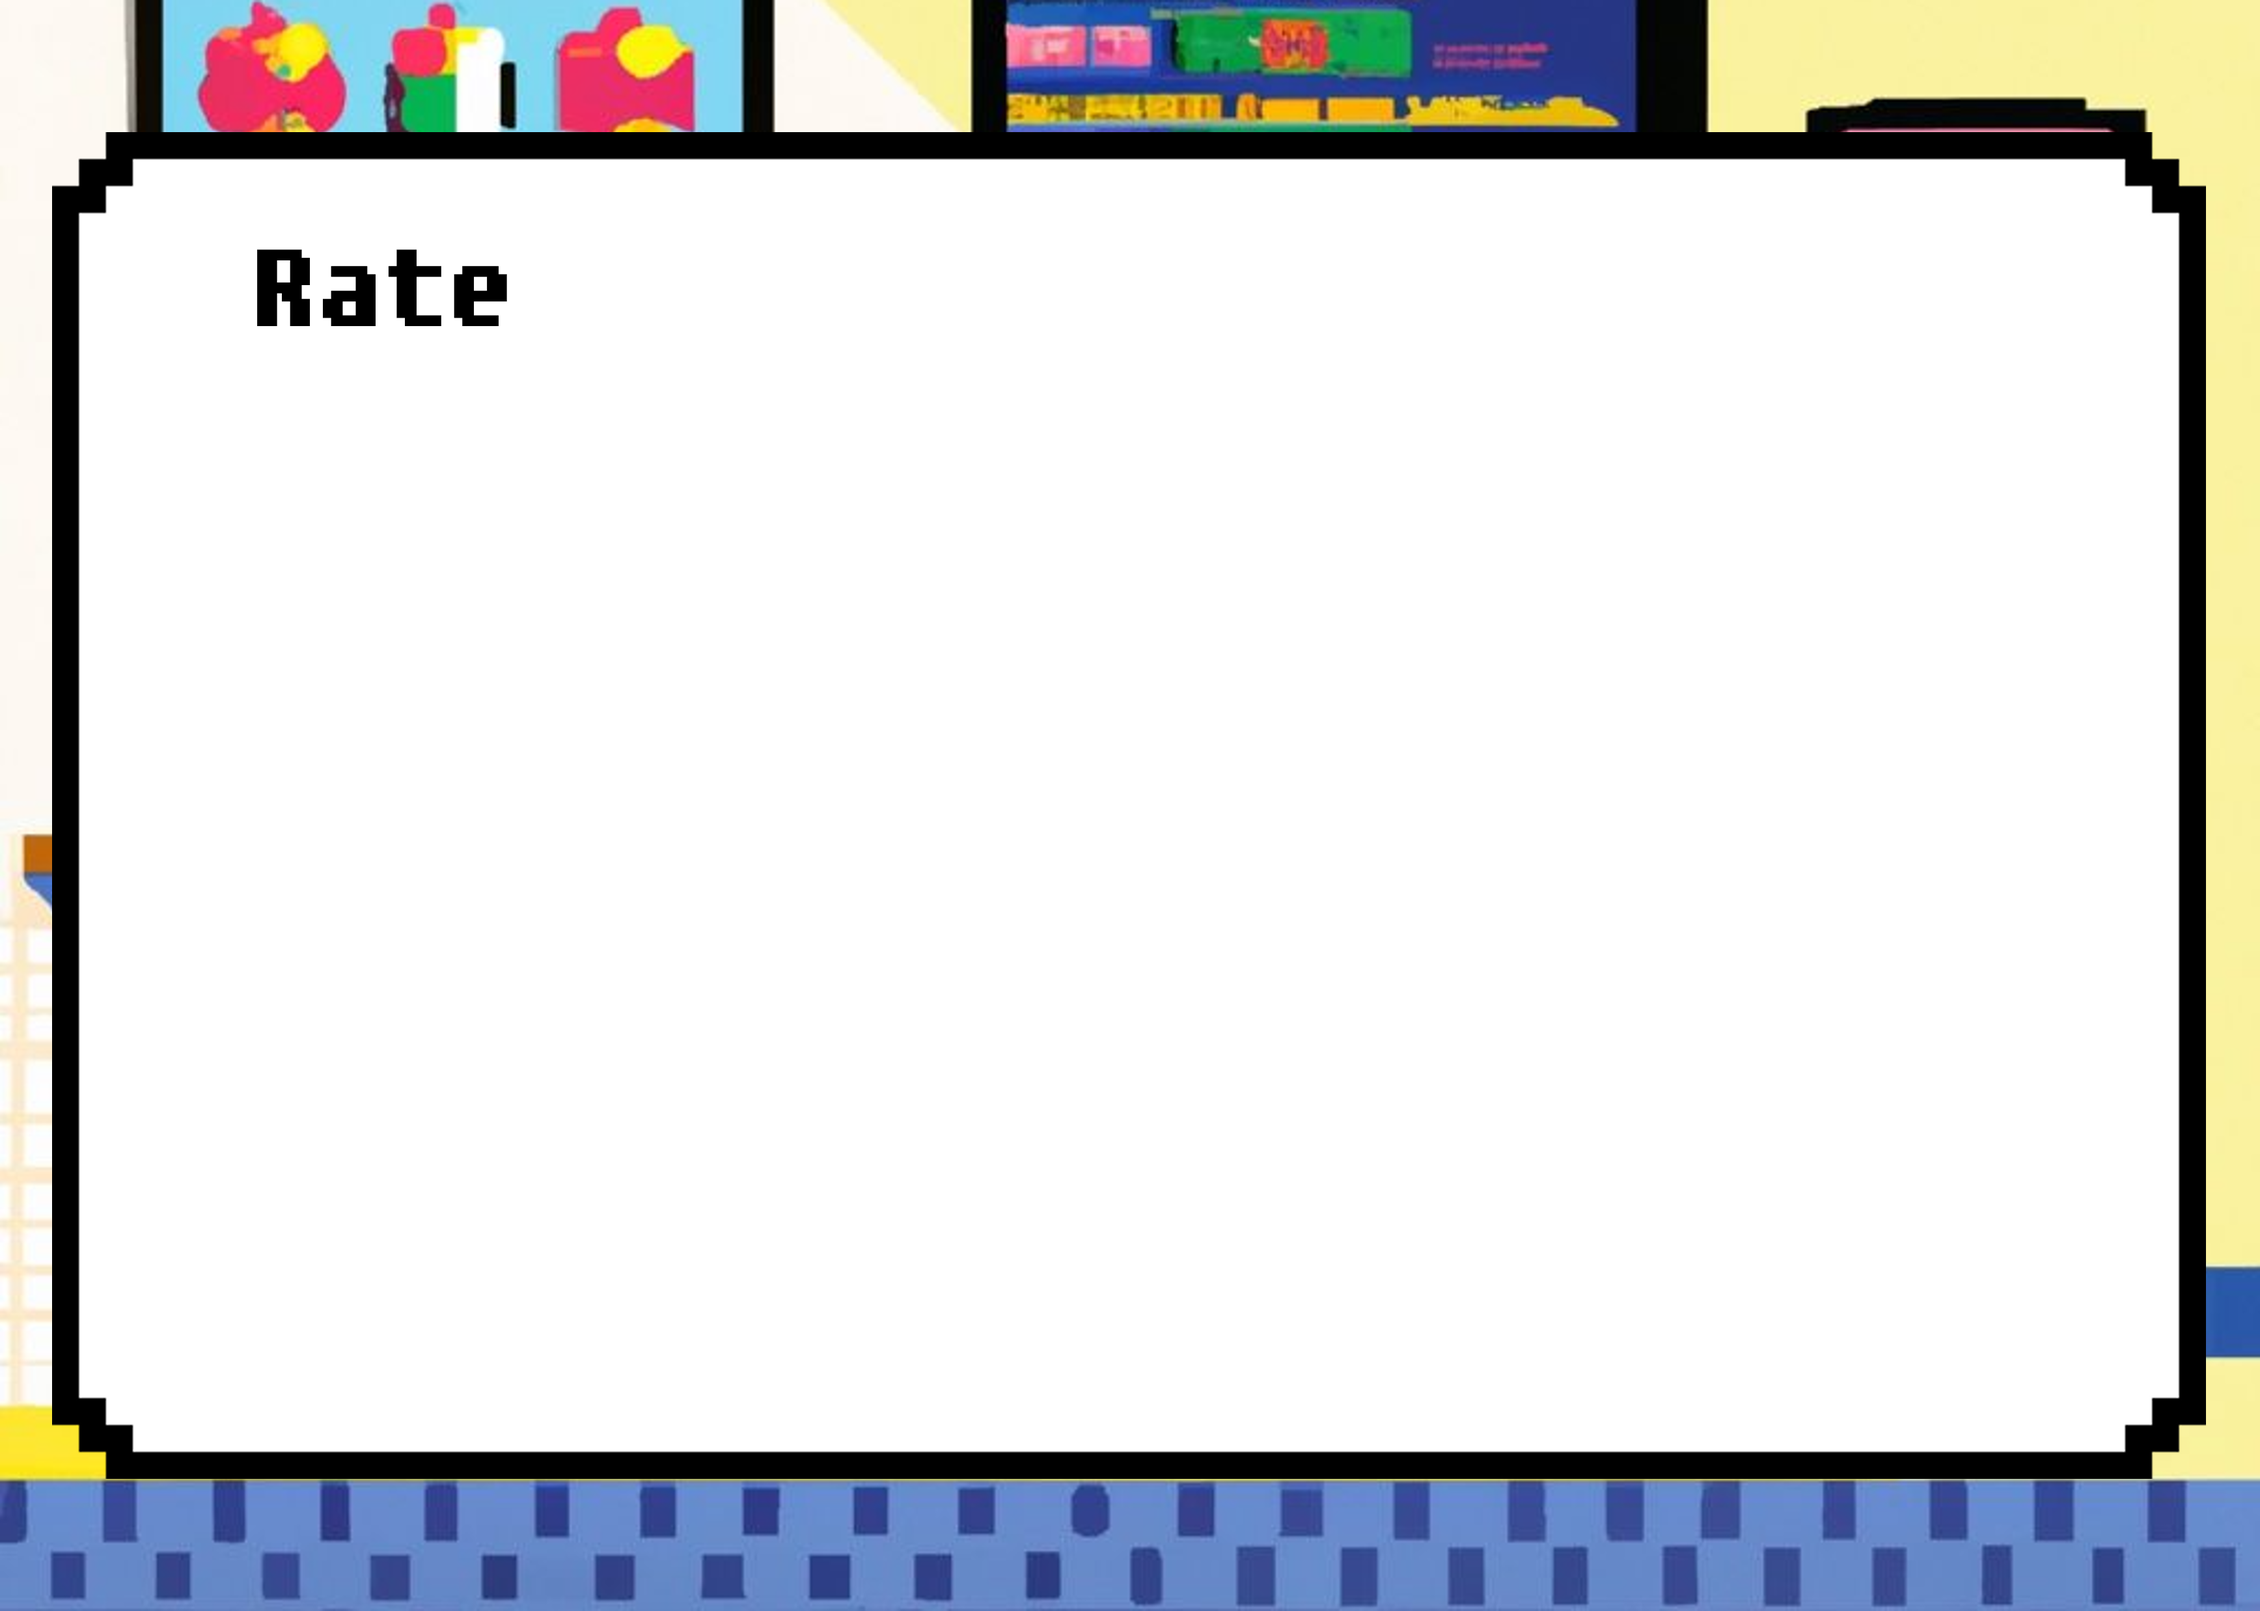
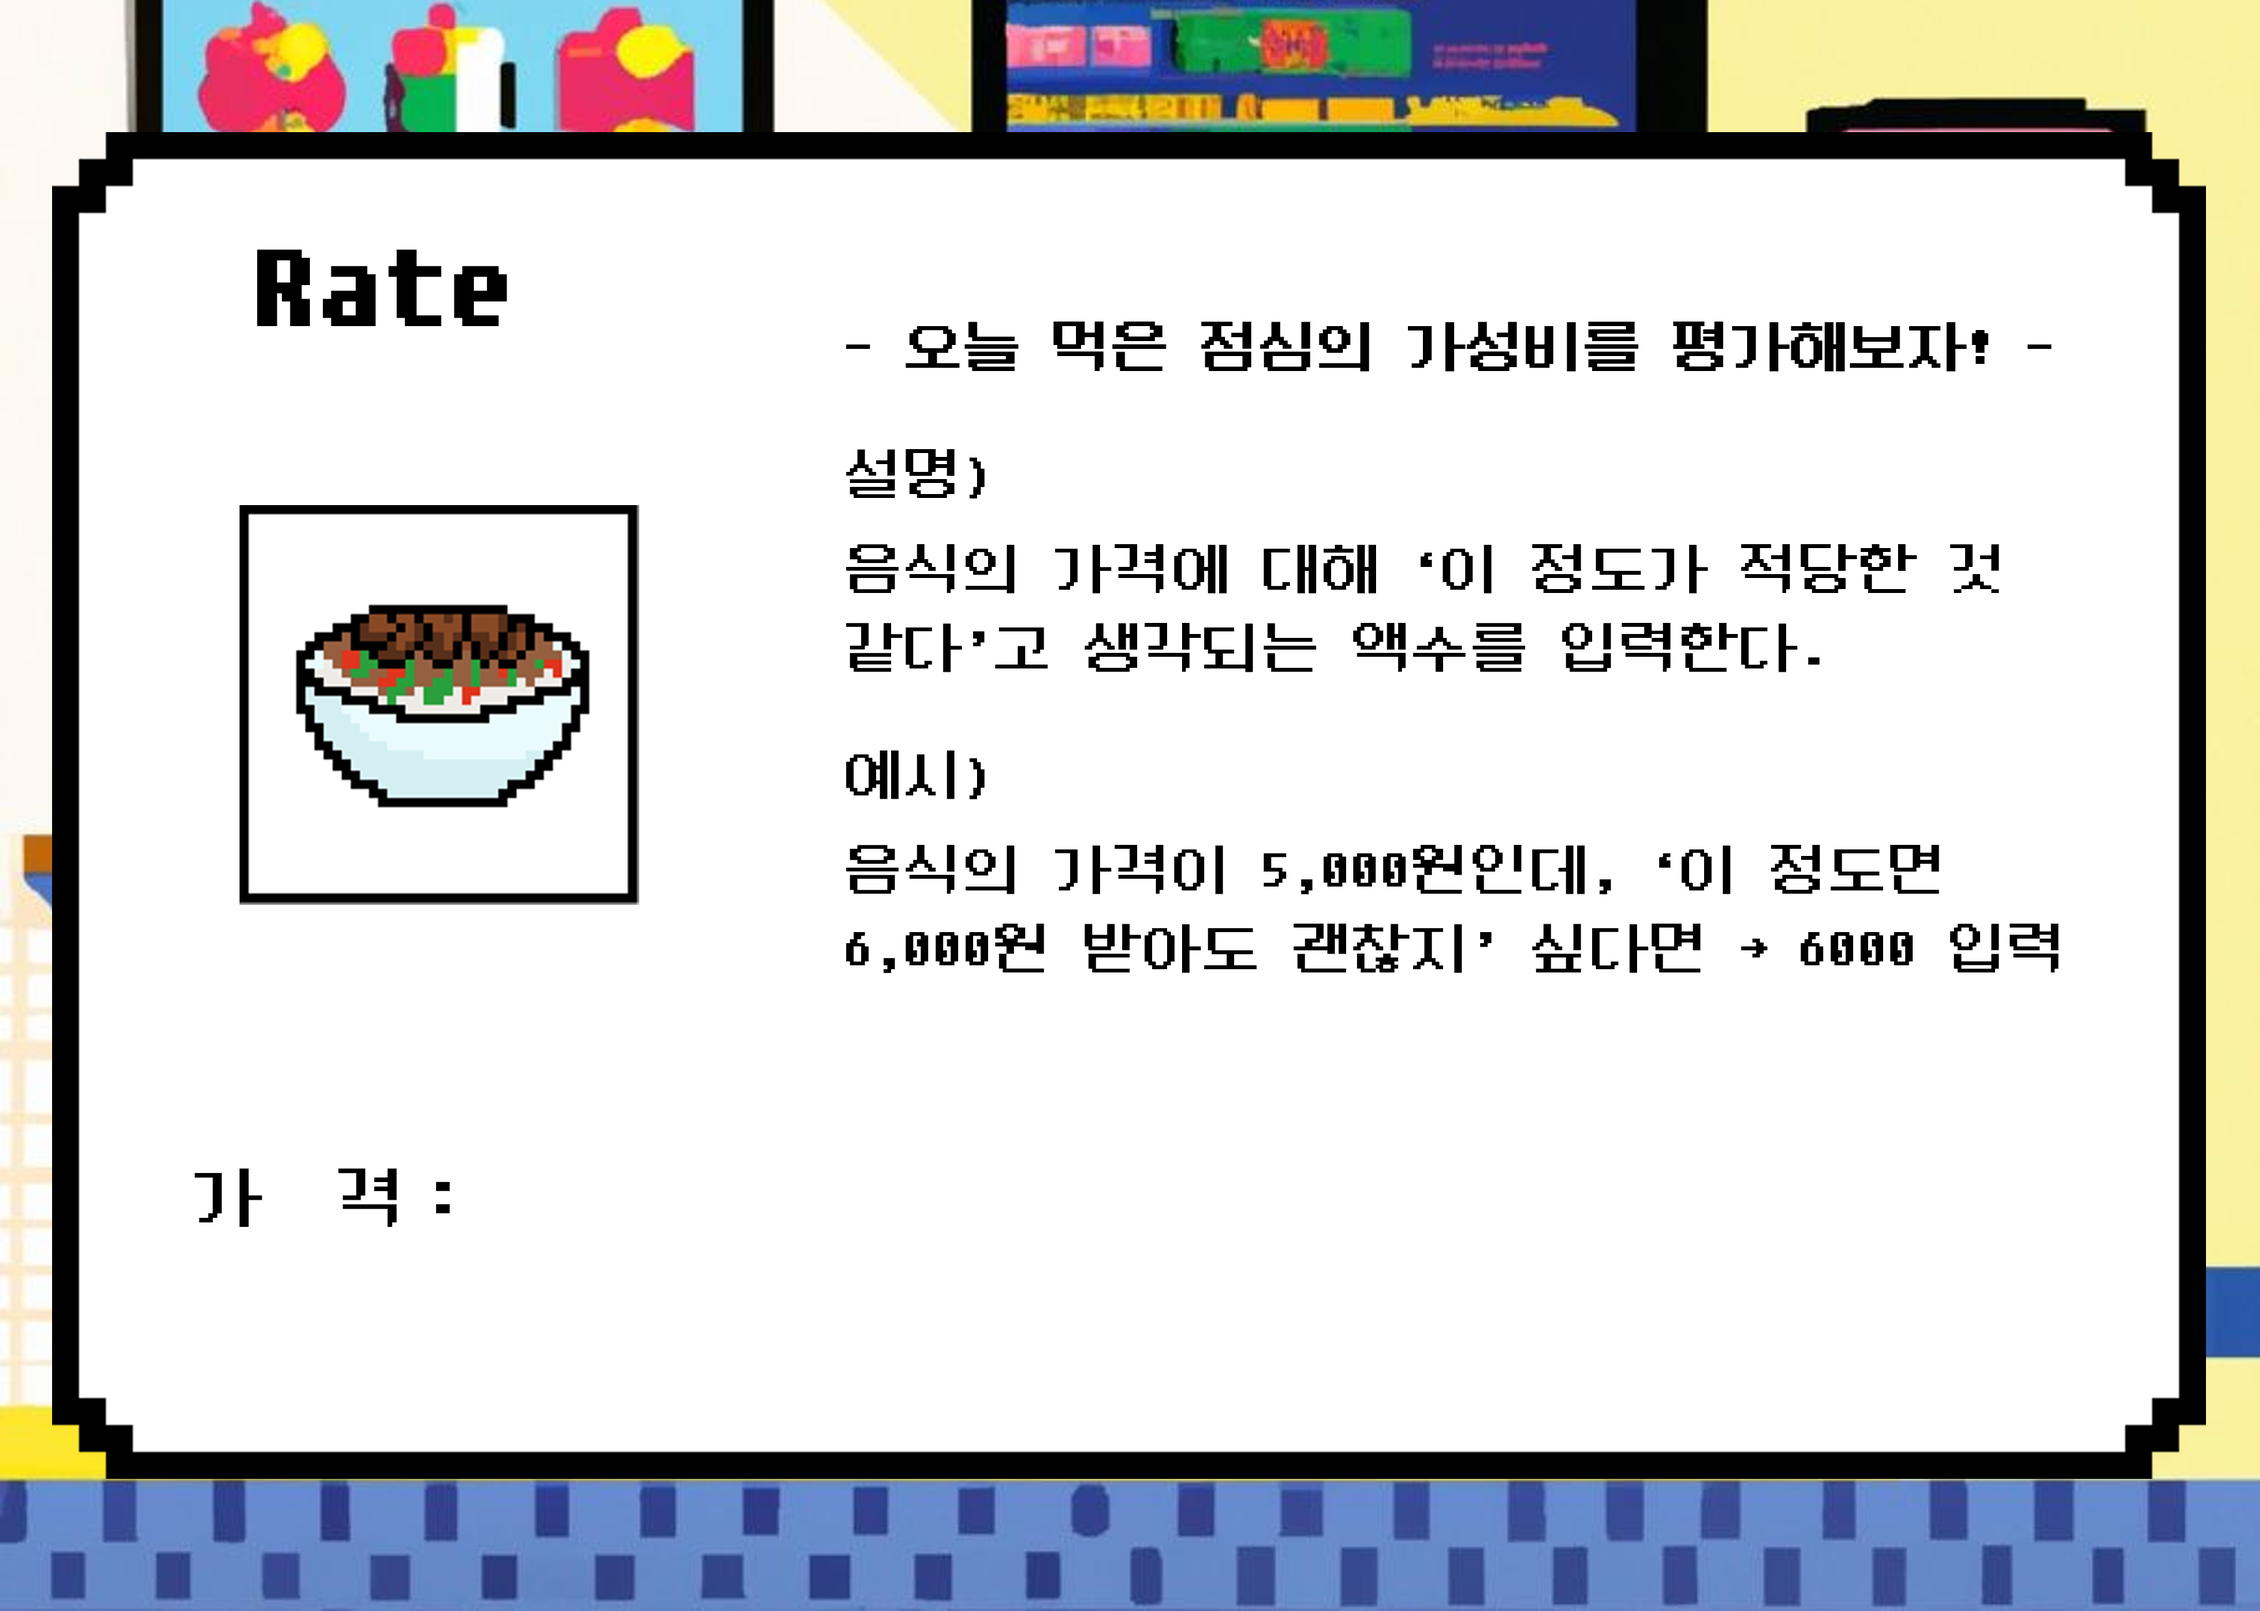
[Scene_9] 평가 페이지
- 평가 페이지의 배경 이미지 설정 완료

diff --git a/items/0menu.js b/items/0menu.js
@@ -3,20 +3,22 @@ import TownCanvas from "../ui/0townCanvas.js";
 
 export default class Menu {
     #ctx;
-    #name;
-    #price;
-    #ratedPrice;
-    #value;
+    #names;
+    #prices;
+    #ratedPrices;
+    #values;
     #menuNums;
+    #menuIndex;
     #btns;
 
     constructor(ctx) {
         this.#ctx = ctx;
-        this.#name = TownCanvas.rstrnts[Restaurant.rstrntIndex].menus.name;
-        this.#price = TownCanvas.rstrnts[Restaurant.rstrntIndex].menus.price;
-        this.#ratedPrice = TownCanvas.rstrnts[Restaurant.rstrntIndex].menus.ratedPrice;
-        this.#value = TownCanvas.rstrnts[Restaurant.rstrntIndex].menus.value;
+        this.#names = TownCanvas.rstrnts[Restaurant.rstrntIndex].menus.name;
+        this.#prices = TownCanvas.rstrnts[Restaurant.rstrntIndex].menus.price;
+        this.#ratedPrices = TownCanvas.rstrnts[Restaurant.rstrntIndex].menus.ratedPrice;
+        this.#values = TownCanvas.rstrnts[Restaurant.rstrntIndex].menus.value;
         this.#menuNums = TownCanvas.rstrnts[Restaurant.rstrntIndex].menus.name.length;
+        this.#menuIndex = 0;
         this.#btns = [];
         for(let i = 0; i < this.#menuNums; i++){
             this.#btns[i] = document.getElementById(`menuBtn${i}`);
@@ -26,20 +28,40 @@ export default class Menu {
         }
     }
 
+    get name(){
+        return this.#names[this.#menuIndex];
+    }
+    get price(){
+        return this.#prices[this.#menuIndex];
+    }
+    get ratedPrice(){
+        return this.#ratedPrices[this.#menuIndex];
+    }
+    get value(){
+        return this.#values[this.#menuIndex];
+    }
+
+    removeBtn(){
+        for(let i in this.#btns){
+            this.#btns[i].style.display = "none";
+        }
+    }
+
     pickMenu(i){
         this.#ctx.clearRect(645, 130, 350, 40);
         this.#ctx.font = "35px dgm";
         this.#ctx.letterSpacing = "1px";
-        this.#ctx.fillText(this.#name[i], 670, 161);
+        this.#ctx.fillText(this.#names[i], 670, 161);
+        this.#menuIndex = i;
     }
 
     // 메뉴 출력 --------------------------------------------------------
     printInfo(ctx) {
-        let name = this.#name;
-        let p = this.#price;
-        let rP = this.#ratedPrice;
-        let value = this.#value;
-        let menuNums = this.#name.length;
+        let name = this.#names;
+        let p = this.#prices;
+        let rP = this.#ratedPrices;
+        let value = this.#values;
+        let menuNums = this.#names.length;
         // 가성비 -> ★로 변환
         // 급간 : 판매 가격의 10%
         for (let i = 0; i < menuNums; i++) {

diff --git a/css/app.css b/css/app.css
@@ -18,12 +18,22 @@ button:hover{
     filter: brightness(0.8);
 }
 
+.S1-next{
+    display: none;
+    position: absolute;
+    margin-left: 990px;
+    margin-top: 133px;
+    background-color: #F2D800;
+    height: 38px;
+    font-family: "dgm";
+    font-size: 23px;
+    text-align: center;
+}
 .menuBtn0{
-    /* display: none; */
+    display: none;
     position: absolute;
     margin-left: 85px;
     margin-top: 275px;
-    display: none;
     background-color: rgb(207, 207, 207);
     height: 38px;
     font-family: "dgm";
@@ -31,11 +41,10 @@ button:hover{
     text-align: center;
 }
 .menuBtn1{
-    /* display: none; */
+    display: none;
     position: absolute;
     margin-left: 85px;
     margin-top: 340px;
-    display: none;
     background-color: rgb(207, 207, 207);
     height: 38px;
     font-family: "dgm";
@@ -43,11 +52,10 @@ button:hover{
     text-align: center;
 }
 .menuBtn2{
-    /* display: none; */
+    display: none;
     margin-left: 85px;
     margin-top: 405px;
     position: absolute;
-    display: none;
     background-color: rgb(207, 207, 207);
     height: 38px;
     font-family: "dgm";
@@ -55,11 +63,10 @@ button:hover{
     text-align: center;
 }
 .menuBtn3{
-    /* display: none; */
+    display: none;
     margin-left: 85px;
     margin-top: 470px;
     position: absolute;
-    display: none;
     background-color: rgb(207, 207, 207);
     height: 38px;
     font-family: "dgm";
@@ -67,11 +74,10 @@ button:hover{
     text-align: center;
 }
 .menuBtn4{
-    /* display: none; */
+    display: none;
     margin-left: 85px;
     margin-top: 535px;
     position: absolute;
-    display: none;
     background-color: rgb(207, 207, 207);
     height: 38px;
     font-family: "dgm";
@@ -79,11 +85,10 @@ button:hover{
     text-align: center;
 }
 .menuBtn5{
-    /* display: none; */
+    display: none;
     margin-left: 85px;
     margin-top: 600px;
     position: absolute;
-    display: none;
     background-color: rgb(207, 207, 207);
     height: 38px;
     font-family: "dgm";
@@ -91,11 +96,10 @@ button:hover{
     text-align: center;
 }
 .menuBtn6{
-    /* display: none; */
+    display: none;
     margin-left: 85px;
     margin-top: 665px;
     position: absolute;
-    display: none;
     background-color: rgb(207, 207, 207);
     height: 38px;
     font-family: "dgm";

diff --git a/ui/0restaurantCanvas.js b/ui/0restaurantCanvas.js
@@ -74,12 +74,44 @@ export default class RestaurantCanvas {
     let h = this.#h;
     this.#ctx.drawImage(scene, x, y, w, h);
 
+    this.#menu = new Menu(this.#ctx);
+    
     // Scene_1 : 메뉴판
-    if (index == 1) {
-      this.#menu = new Menu(this.#ctx);
-      this.#menu.printInfo(this.#ctx);
-    }
+    if (this.#sceneIndex == 1)
+      this.scene1(this.#menu);
+    // Scene_2 : 평가
+    if (this.#sceneIndex == 9)
+      this.scene9(this.#menu);
   } // click handler
+
+  scene9(menu){
+    let name = menu.name;
+    let price = menu.price;
+    let ratedPrice = menu.ratedPrice;
+    let value = menu.value;
+    this.#ctx.font = "35px dgm";
+    this.#ctx.fillText(name, 122, 530);
+    this.#ctx.fillText(price, 255, 618);
+  }
+
+  scene1(menu){
+    menu.printInfo(this.#ctx);
+    let btn = document.getElementById("S1-next");
+    btn.style.display = "block";
+    btn.addEventListener('click', function(){
+      this.#sceneIndex++;
+      let index = this.#sceneIndex;
+      let ctx = this.#ctx;
+      let scene = this.#scenes[index];
+      let x = this.#x;
+      let y = this.#y;
+      let w = this.#w;
+      let h = this.#h;
+      this.#ctx.drawImage(scene, x, y, w, h);
+      this.#menu.removeBtn();
+      btn.style.display = "none";
+    }.bind(this))
+  }
 
   get canvas() {
     return this.#canvas;

diff --git a/app.html b/app.html
@@ -38,6 +38,7 @@
         <button id="menuBtn4" class="menuBtn4">선택</button>
         <button id="menuBtn5" class="menuBtn5">선택</button>
         <button id="menuBtn6" class="menuBtn6">선택</button>
+        <button id="S1-next" class="S1-next">다음</button>
     <!-- Scene_2~8 -->
     <img src="/images/inrstrnt_2.png" id="inRstrnt2" class="d-none" />
     <img src="/images/inrstrnt_3.png" id="inRstrnt3" class="d-none" />
@@ -48,6 +49,7 @@
     <img src="/images/inrstrnt_8.png" id="inRstrnt8" class="d-none" />
     <!-- Scene_9 : 평가 -->
     <img src="/images/inRstrnt_9.png" id="inRstrnt9" class="d-none">
+        <input type="text">
     <!-- Scene_10~17 -->
     <img src="/images/inrstrnt_10.png" id="inRstrnt10" class="d-none" />
     <img src="/images/inrstrnt_11.png" id="inRstrnt11" class="d-none" />

diff --git a/items/0user.js b/items/0user.js
@@ -33,6 +33,8 @@ export default class User{
         let a = Math.sqrt(w*w + h*h);
         this.#vx = 4*w/a;
         this.#vy = 3;
+        // this.#vx = 100*w/a;
+        // this.#vy = 100;
     }
 
     // 업뎃 ----------------------------------------------------------
